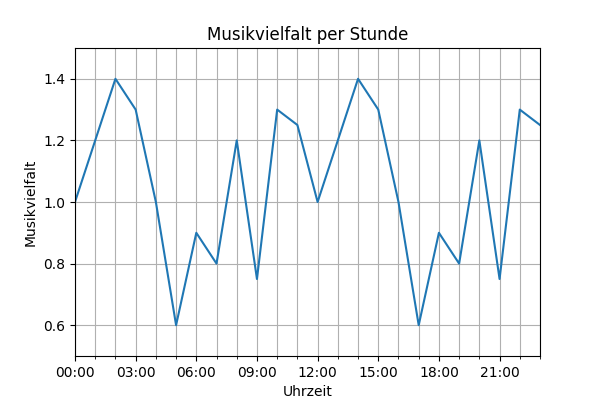
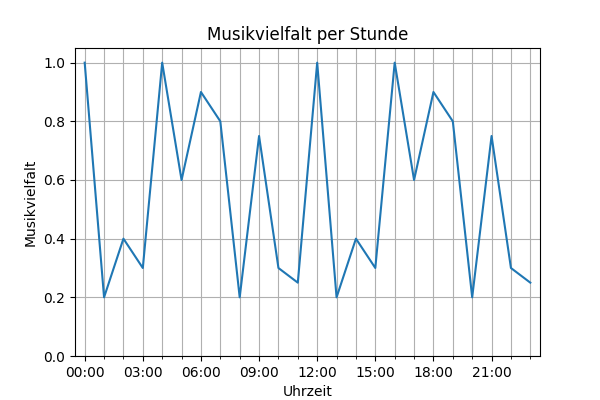
change song variety measure

Changed region(s): [[0.06, 0.12, 0.9, 0.96]]

diff --git a/Backend/Statistics.cs b/Backend/Statistics.cs
@@ -78,7 +78,10 @@ namespace Backend
             }
 
             // get counts
-            var eventsInTimeSpan = db.Events.Where(e => fromUnix < e.StartTimeUnix && e.StartTimeUnix < toUnix).ToList();
+            var eventsInTimeSpan = db.Events
+                .Include(e => e.Song).ThenInclude(s => s.Artists)
+                .Where(e => fromUnix < e.StartTimeUnix && e.StartTimeUnix < toUnix)
+                .ToList();
             var frequencyBySongId = eventsInTimeSpan.GroupBy(e => e.SongId).ToDictionary(g => g.Key, g => g.Count());
 
             // group events by hour
@@ -99,19 +102,38 @@ namespace Backend
             {
                 if (!hoursWithEvents.Contains(hour))
                     frequencySumByHour.Add(new { Hour = hour, FrequencySum = 0 });
+                if (!eventsByHour.ContainsKey(hour))
+                    eventsByHour[hour] = new List<Event>();
             }
-            var averageFrequencySum = frequencySumByHour.Average(fsbh => fsbh.FrequencySum);
-            static double GetVariety(int frequencySum, double averageFrequencySum)
+
+            static double GetVariety(int frequencySum, double nSongs)
             {
-                if (frequencySum == 0 || averageFrequencySum == 0) return 1;
-                // TODO for some reason sometimes at 00:00 this is very high
-                var value = frequencySum / averageFrequencySum;
-                if (value < 0 || value > 2)
-                    Log.Information($"clamping value {value} to [0,2]");
-                return Math.Clamp(value, 0, 2);
+                if (frequencySum == 0 || nSongs == 0) return 1;
+                return nSongs / frequencySum;
             }
+
+            // log for analysis
+            Log.Information($"Frequencies from {from:g} to {to:g} (totalEvents={eventsInTimeSpan.Count}, uniqueEvents={frequencyBySongId.Keys.Count})");
+            var frequencyCounts = frequencyBySongId.GroupBy(f => f.Value).ToDictionary(g => g.Key, g => g.Count()).OrderByDescending(g => g.Key);
+            foreach (var kv in frequencyCounts)
+                Log.Information($"{kv.Value} Songs were played {kv.Key} times");
+            Log.Information("Frequencies from the whole day");
+            var songsById = eventsInTimeSpan.GroupBy(e => e.SongId).ToDictionary(g => g.Key, g => g.First().Song);
+            foreach (var kv in frequencyBySongId.OrderByDescending(kv => kv.Value))
+            {
+                var song = songsById[kv.Key];
+                Log.Information($"{kv.Value}x {song.Name} - {song.ArtistsString}");
+            }
+            Log.Information($"Song Varieties for {from:g} to {to:g}");
+            foreach (var fsbh in frequencySumByHour)
+            {
+                Log.Information($"{fsbh.Hour:t}: events={eventsByHour[fsbh.Hour].Count} frequency={fsbh.FrequencySum}");
+                foreach(var e in eventsByHour[fsbh.Hour])
+                    Log.Information($"frequency={frequencyBySongId[e.SongId]} {e.Song.Name} - {e.Song.ArtistsString} (id={e.SongId})");
+            }
+
             return frequencySumByHour
-                .Select(fsbh => (fsbh.Hour, GetVariety(fsbh.FrequencySum, averageFrequencySum)))
+                .Select(fsbh => (fsbh.Hour, GetVariety(fsbh.FrequencySum, eventsByHour[fsbh.Hour].Count)))
                 .OrderBy(hourVariety => hourVariety.Hour)
                 .ToList();
         }
@@ -144,29 +166,11 @@ namespace Backend
 
         public static byte[] AverageDailySongVarietyByHourPlot(DateTime from, DateTime to)
         {
-            throw new NotImplementedException();
-            // TODO
-            //var varietyByHour = AverageDailySongVarietyByHour(from, to);
-            //var plt = new Plot(600, 200);
-            //var labels = varietyByHour.Select(vbh => vbh.Item1.ToString("HH:mm")).ToArray();
-            //// take every other element
-            //labels = labels.Select((l, i) => i % 3 == 0 ? l : string.Empty).ToArray();
-            //plt.XTicks(labels);
-            //var values = varietyByHour.Select(vbh => vbh.Item2).ToArray();
-            //var stds = varietyByHour.Select(vbh => vbh.Item3).ToArray();
-            //plt.AddScatter(
-            //    Enumerable.Range(0, varietyByHour.Count).Select(i => (double)i).ToArray(),
-            //    values);
-            //plt.AddFill(
-            //    Enumerable.Range(0, varietyByHour.Count).Select(i => (double)i).ToArray(),
-            //    varietyByHour.Select(vbh => vbh.Item2 - vbh.Item3).ToArray(),
-            //    varietyByHour.Select(vbh => vbh.Item2 + vbh.Item3).ToArray());
-            //plt.Title($"Durchschnittliche Musikvielfalt per Stunde {from.Year}");
-            //// set yrange to 0.5, 1.5
-            //var ymin = Math.Min(0.5, values.Min());
-            //var ymax = Math.Max(1.5, values.Max());
-            //plt.SetAxisLimitsY(ymin, ymax);
-            //return plt.GetImageBytes();
+            var varietyByHour = AverageDailySongVarietyByHour(from, to);
+            var xLabels = varietyByHour.Select(vbh => vbh.Item1.ToString("HH:mm")).ToArray();
+            var values = varietyByHour.Select(vbh => vbh.Item2).ToArray();
+            var stds = varietyByHour.Select(vbh => vbh.Item3).ToArray();
+            return Plotter.Instance.GetPlot(x: values, stds: stds, xLabels: xLabels);
         }
         public static List<(DateTime, double, double)> AverageDailySongVarietyByHour(DateTime from, DateTime to)
         {

diff --git a/Backend.Tests/StatisticsTests.cs b/Backend.Tests/StatisticsTests.cs
@@ -16,10 +16,8 @@ namespace Backend.Tests
         {
             base.SetUp();
 
-            // drop db
-            using var db = new DatabaseContext(dropDb: true);
-
             Plotter.Init(@"C:\Users\bened\AppData\Local\Programs\Python\Python310\python.exe");
+            DatabaseContext.DbName = "Resources/TestDatabase";
         }
 
         [Test]
@@ -27,7 +25,6 @@ namespace Backend.Tests
         {
             var from = new DateTime(2021, 11, 01, 18, 00, 00);
             var till = from + TimeSpan.FromHours(12);
-            DatabaseOperations.UpdateDb(from, till);
 
             var topKSongCounts = Statistics.MostPlayedSongs(from, till, 5);
             Assert.AreEqual(5, topKSongCounts.Count);
@@ -40,31 +37,36 @@ namespace Backend.Tests
         {
             var from = new DateTime(2021, 11, 01, 0, 00, 00);
             var till = from + TimeSpan.FromDays(1);
-            DatabaseOperations.UpdateDb(from, till);
 
             var variety = Statistics.SongVarietyByHour(from, till);
             // TODO asserts
         }
         [Test]
-        public void SongVarietyPlot()
-        {
-            var from = new DateTime(2021, 11, 03, 0, 00, 00);
-            var till = from + TimeSpan.FromDays(1);
-            DatabaseOperations.UpdateDb(from, till);
-
-            var image = Statistics.SongVarietyByHourPlot(from, till);
-            var expected = File.ReadAllBytes("Resources/variety.png");
-            Assert.AreEqual(expected, image);
-        }
-        [Test]
         public void SongVarietyPlotEmpty()
         {
-            var from = new DateTime(2021, 11, 03, 0, 00, 00);
+            var from = new DateTime(2022, 11, 03, 0, 00, 00);
             var till = from + TimeSpan.FromDays(1);
 
             var image = Statistics.SongVarietyByHourPlot(from, till);
             var expected = File.ReadAllBytes("Resources/variety_empty.png");
             Assert.AreEqual(expected, image);
+        }
+        [Test]
+        public void AverageDailySongVariety()
+        {
+            var from = new DateTime(2021, 01, 01);
+            var to = new DateTime(2021, 12, 25);
+            var image = Statistics.AverageDailySongVarietyByHourPlot(from, to);
+        }
+        [Test]
+        public void SongVarietyOnlyUniqueSongs()
+        {
+            // on 30.12.2021 Ö3 played only unique songs
+            var from = new DateTime(2021, 12, 30, 0, 00, 00);
+            var till = from + TimeSpan.FromDays(1);
+
+            var varieties = Statistics.SongVarietyByHour(from, till);
+            Assert.IsTrue(varieties.All(v => v.Item2 == 1));
         }
 
         [Test]
@@ -72,7 +74,6 @@ namespace Backend.Tests
         {
             var from = new DateTime(2021, 11, 01, 0, 00, 00);
             var till = from + TimeSpan.FromHours(12);
-            DatabaseOperations.UpdateDb(from, till);
 
 
             var uniqueSongCount = Statistics.UniqueSongCount(from, till);

diff --git a/Backend/plot.py b/Backend/plot.py
@@ -1,10 +1,13 @@
 import matplotlib.pyplot as plt
 from matplotlib.ticker import MultipleLocator
 
+do_bar_plot = False
+
 # import numpy as np
 # data = {
 #     "x": np.random.randn(24),
 #     "xLabels": [f"{i:02d}:00" for i in range(24)],
+#     "stds": None,
 # }
 
 import json
@@ -15,7 +18,15 @@ fig, ax = plt.subplots(figsize=(6,4))
 
 # plot data
 x = data["x"]
-plt.plot(range(len(x)), x)
+stds = data["stds"]
+if do_bar_plot:
+    plt.bar(range(len(x)), x, zorder=3, yerr=stds)
+else:
+    plt.plot(range(len(x)), x, zorder=3)
+    if stds is not None:
+        lb = [x[i] - stds[i] for i in range(len(x))]
+        ub = [x[i] + stds[i] for i in range(len(x))]
+        plt.fill_between(range(len(x)), lb, ub, alpha=0.3)
 
 # set x tick labels
 labels = data["xLabels"]
@@ -24,18 +35,23 @@ reduced_labels = [label if i % 3 == 0 else "" for i, label in enumerate(labels)]
 plt.xticks(range(len(labels)), reduced_labels)
 ax.xaxis.set_major_locator(MultipleLocator(3))
 ax.xaxis.set_minor_locator(MultipleLocator(1))
-plt.xlim(0, len(labels)-1)
+plt.xlim(-0.5, len(labels)-0.5)
 
 # set axis limits
-ymin = min(0.5, min(x))
-ymax = max(1.5, max(x))
-plt.ylim(ymin, ymax)
+plt.ylim(0, 1.05)
 
 # set axis labels
 plt.xlabel("Uhrzeit")
 plt.ylabel("Musikvielfalt")
 
-plt.title("Musikvielfalt per Stunde")
-plt.grid(which="major")
-plt.grid(which="minor")
+if data["title"] is None:
+    plt.title("Musikvielfalt per Stunde")
+else:
+    plt.title(data["title"])
+
+if do_bar_plot:
+    plt.grid(axis="y")
+else:
+    plt.grid(which="major")
+    plt.grid(which="minor")
 plt.savefig("plot.png")

diff --git a/Tweeter/TweeterService.cs b/Tweeter/TweeterService.cs
@@ -26,6 +26,7 @@ namespace Tweeter
         private const int TWEET_MAX_CHARS = 280;
 
         private TwitterClient Client { get; set; }
+        private IAuthenticatedUser User { get; set; }
 
         public delegate void TweeterServiceErrorEventHandler();
         public event TweeterServiceErrorEventHandler OnError;
@@ -34,8 +35,20 @@ namespace Tweeter
         {
             // initialize twitter client and check connection
             Client = new TwitterClient(config.ApiKey, config.ApiKeySecret, config.ApiAccessToken, config.ApiAccessTokenSecret);
-            var user = Client.Users.GetAuthenticatedUserAsync().Result;
-            Log.Information($"authenticated as {user.Name}");
+            User = Client.Users.GetAuthenticatedUserAsync().Result;
+            Log.Information($"authenticated as {User.Name}");
+        }
+
+        public async Task DeleteAllTweets()
+        {
+            var tweets = await Client.Timelines.GetUserTimelineAsync(User.Id);
+            Log.Information($"found {tweets.Length} tweets in timeline to delete");
+            for (var i = 0; i < tweets.Length; i++)
+            {
+                var tweet = tweets[i];
+                await Client.Tweets.DestroyTweetAsync(tweet.Id);
+                Log.Information($"deleted tweet {i+1}/{tweets.Length} {tweet.FullText}");
+            }
         }
 
         public async Task MakePastTweets(TimeSpan tweetTime, DateTime startDate)

diff --git a/Runner/Program.cs b/Runner/Program.cs
@@ -14,13 +14,33 @@ namespace Runner
                 .WriteTo.File("runner.log")
                 .CreateLogger();
 
+            DatabaseContext.DbName = "PremadeDb";
             // DatabaseOperations.UpdateDb();
+            Plotter.Init(@"C:\Users\bened\AppData\Local\Programs\Python\Python310\python.exe");
+            GenerateSomeVarietyPlots();
+            
+            Log.Information("finished");
+        }
+
+        public static void GenerateSomeVarietyPlots()
+        {
+            var from = new DateTime(2021, 01, 01, 18, 00, 00);
+            var to = new DateTime(2021, 01, 31);
+            while(from < to)
+            {
+                var image = Statistics.SongVarietyByHourPlot(from, from + TimeSpan.FromDays(1));
+                File.WriteAllBytes($"variety_{from:yyyy.MM.dd}.png", image);
+                from += TimeSpan.FromDays(1);
+            }
+            
+        }
+
+        public static void AverageDailySongVarietyByHourPlot()
+        {
             var from = new DateTime(2021, 01, 01);
             var to = new DateTime(2021, 12, 25);
             var image = Statistics.AverageDailySongVarietyByHourPlot(from, to);
             File.WriteAllBytes("yearly_variety.png", image);
-            
-            Log.Information("finished");
         }
     }
 }

diff --git a/Backend.Tests/PlotterTests.cs b/Backend.Tests/PlotterTests.cs
@@ -24,14 +24,14 @@ namespace Backend.Tests
         {
             var x = new double[]
             { 
-                1.0, 1.2, 1.4, 
-                1.3, 1.0, 0.6, 
-                0.9, 0.8, 1.2, 
-                0.75, 1.3, 1.25, 
-                1.0, 1.2, 1.4, 
-                1.3, 1.0, 0.6, 
-                0.9, 0.8, 1.2, 
-                0.75, 1.3, 1.25,
+                1.0, 0.2, 0.4, 
+                0.3, 1.0, 0.6, 
+                0.9, 0.8, 0.2, 
+                0.75, 0.3, 0.25, 
+                1.0, 0.2, 0.4, 
+                0.3, 1.0, 0.6, 
+                0.9, 0.8, 0.2, 
+                0.75, 0.3, 0.25,
             };
             var labels = Enumerable.Range(0, x.Length).Select(i => $"{i:D2}:00").ToArray();
             var plot = Plotter.Instance.GetPlot(x, labels);

diff --git a/Tweeter/Program.cs b/Tweeter/Program.cs
@@ -20,6 +20,7 @@ namespace Tweeter
 
         public string PythonPath { get; set; }
         public bool IsTestRun { get; set; }
+        public bool DeleteAllTweets { get; set; }
         public bool TestCredentials { get; set; }
     }
 
@@ -56,6 +57,13 @@ namespace Tweeter
             Plotter.Init(config.PythonPath);
             tweeter.OnError += () => mailer.SendMail(config.TargetEmail, "Ö3RadioStats Error", "Encountered error in Ö3RadioStats");
 
+            // delete all tweets
+            if (config.DeleteAllTweets)
+            {
+                await tweeter.DeleteAllTweets();
+                return;
+            }
+                
             
             // do test run if specified
             if (config.TestCredentials)

diff --git a/Backend/Plotter.cs b/Backend/Plotter.cs
@@ -37,7 +37,7 @@ namespace Backend
             PythonPath = pythonPath;
         }
 
-        public byte[] GetPlot(double[] x, string[] xLabels)
+        public byte[] GetPlot(double[] x, string[] xLabels, string title=null, double[] stds=null)
         {
             File.Delete("data.json");
             File.Delete("plot.png");
@@ -46,6 +46,8 @@ namespace Backend
             {
                 { "x", x },
                 { "xLabels", xLabels },
+                { "stds", stds },
+                { "title", title },
             });
             File.WriteAllText("data.json", json);
             RunPlotter();

diff --git a/Backend/DatabaseContext.cs b/Backend/DatabaseContext.cs
@@ -9,9 +9,10 @@ namespace Backend
 {
     public class DatabaseContext : DbContext
     {
-        private const string DB_FILE = @"RadioStats.sqlite";
+        public static string DbName { get; set; } = "RadioStats";
 
-        public DatabaseContext(bool dropDb=false) : base(new DbContextOptionsBuilder<DatabaseContext>().UseSqlite($"Data Source={DB_FILE}").Options)
+        public DatabaseContext(bool dropDb=false) 
+            : base(new DbContextOptionsBuilder<DatabaseContext>().UseSqlite($"Data Source={DbName}.sqlite").Options)
         {
             if (dropDb)
                 Database.EnsureDeleted();

diff --git a/Backend.Tests/DownloaderTests.cs b/Backend.Tests/DownloaderTests.cs
@@ -25,7 +25,7 @@ namespace Backend.Tests
         public void DownloadJsonEvents(string dateTimeStr, int count)
         {
             var dateTime = DateTime.Parse(dateTimeStr);
-            var jsonEvents = Util.InvokePrivateMethod<List<JsonEvent>>(typeof(Downloader), "DownloadJsonEvents", dateTime);
+            var jsonEvents = Downloader.DownloadJsonEvents(dateTime);
 
             Assert.AreEqual(count, jsonEvents.Count);
         }

diff --git a/Backend.Tests/DatabaseOperationsTests.cs b/Backend.Tests/DatabaseOperationsTests.cs
@@ -44,7 +44,7 @@ namespace Backend.Tests
         [Test]
         public void UpdateDatabase_DoesNotThrowError()
         {
-            DatabaseOperations.UpdateDb(Downloader.FIRST_DATE_WITH_DATA + TimeSpan.FromMinutes(5));
+            DatabaseOperations.UpdateDb(Downloader.FIRST_DATE_WITH_DATA, Downloader.FIRST_DATE_WITH_DATA + TimeSpan.FromMinutes(5));
         }
     }
 }
